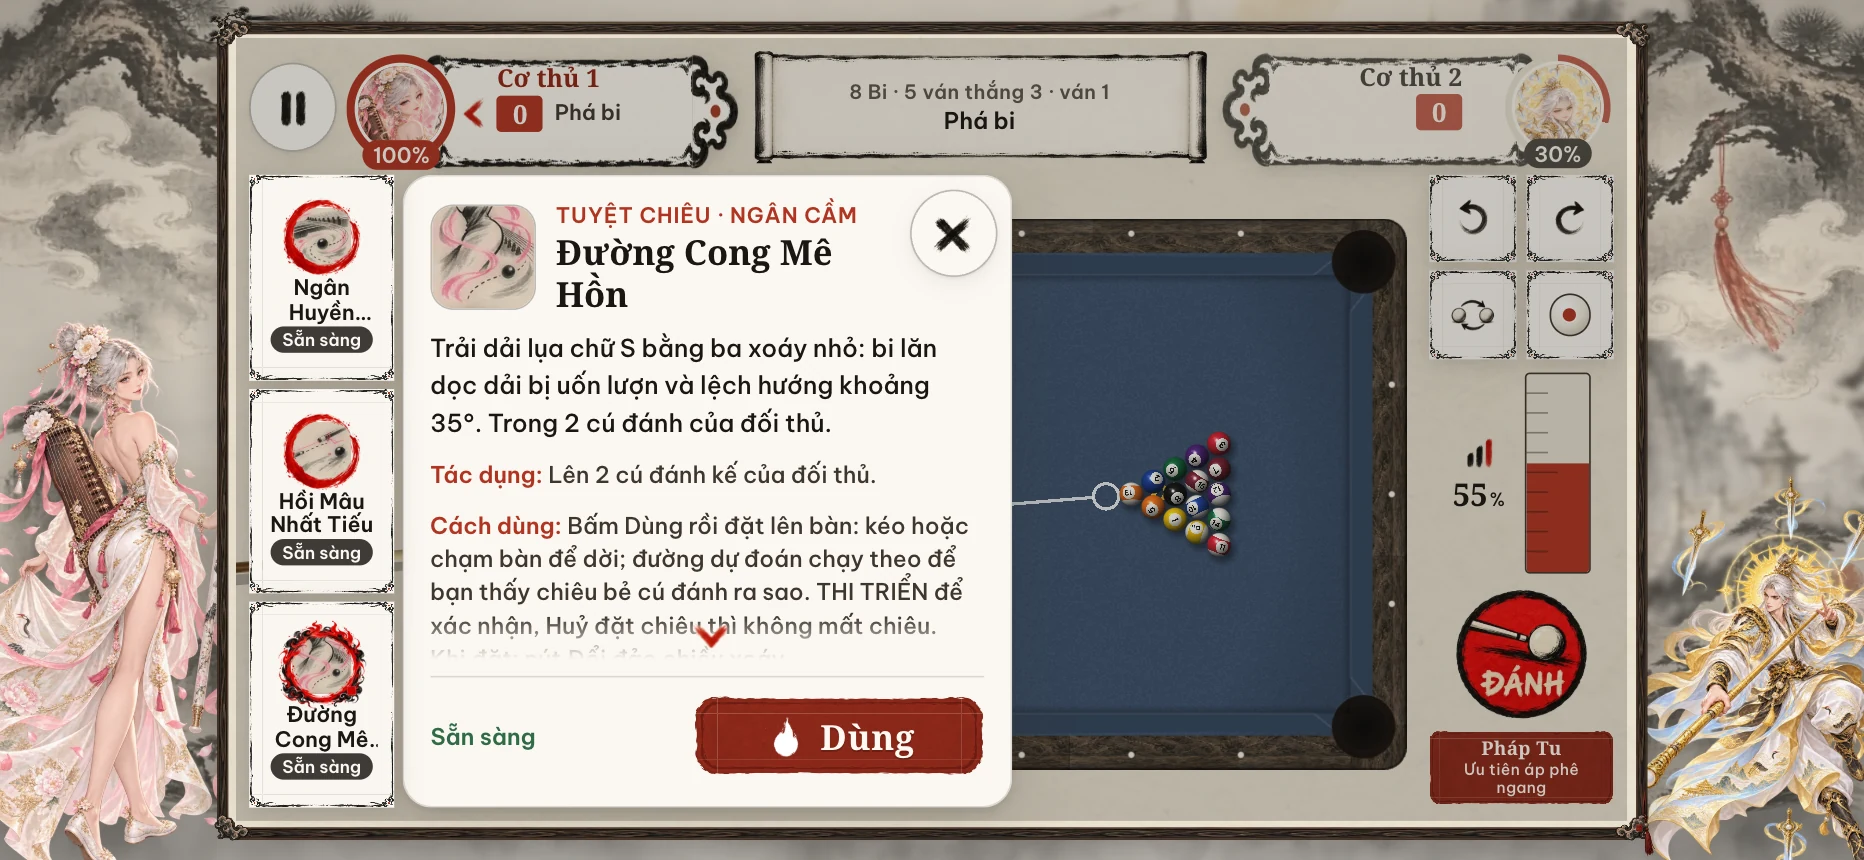
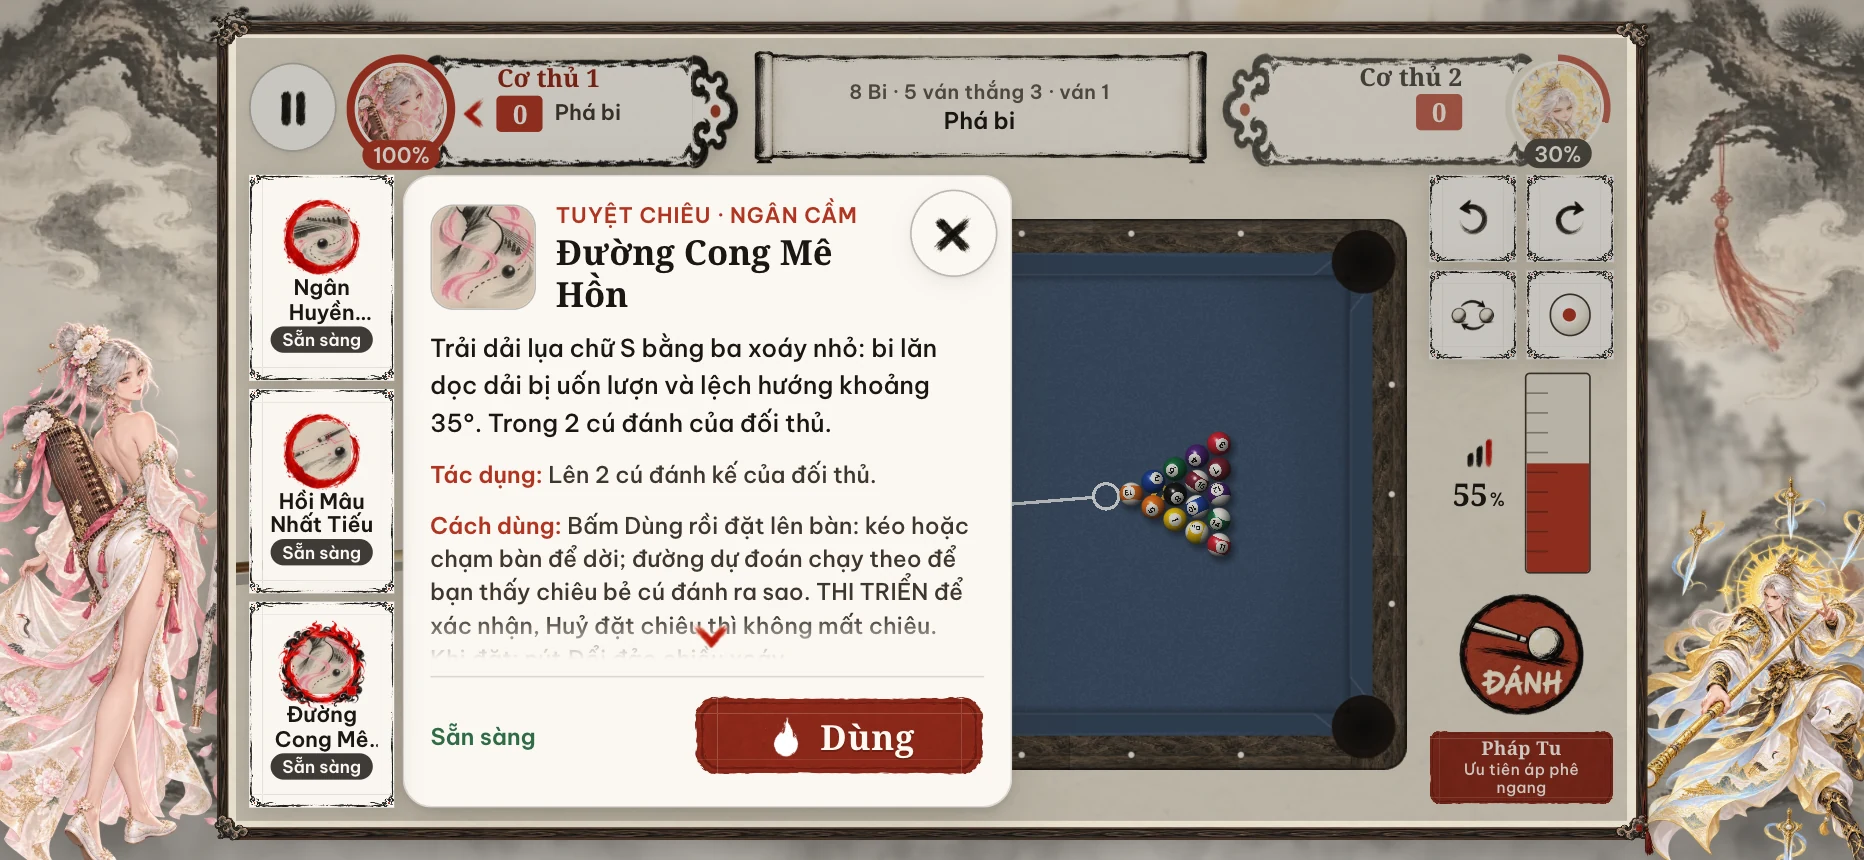
feat(ui): redraw match controls and journey challenge action

Changed region(s): [[0.7779, 0.6651, 0.8712, 0.8465]]

diff --git a/src/styles/screens.css b/src/styles/screens.css
@@ -552,18 +552,28 @@ textarea.code-box:focus { border-color: var(--accent); }
   text-overflow: ellipsis;
 }
 .land-sheet .ls-masters .cc-sub { justify-self: stretch; white-space: nowrap; overflow: hidden; text-overflow: ellipsis; }
-.land-sheet .ls-masters .cc-cta { margin-top: 2px; }
+.land-sheet .ls-masters .champ-card.next { grid-template-columns: 48px minmax(0, 1fr) var(--touch-target); }
+.land-sheet .ls-masters .champ-card > .ls-duel {
+  grid-column: 3;
+  grid-row: 1 / span 3;
+  justify-self: end;
+  display: grid;
+  place-items: center;
+  width: var(--touch-target);
+  height: var(--touch-target);
+  border: 1px solid var(--accent);
+  border-radius: 50%;
+  background: var(--sheet);
+}
+.ls-duel .ico { width: 34px; height: 34px; }
 .land-sheet .ls-masters .stars { gap: 1px; }
 .land-sheet .ls-masters .stars .ico { width: 15px; height: 15px; }
 .land-sheet .ls-masters .ls-boss { grid-column: 1 / -1; grid-template-columns: 60px minmax(0, 1fr); padding: 5px 10px 5px 5px; }
+.land-sheet .ls-masters .ls-boss.next { grid-template-columns: 60px minmax(0, 1fr) var(--touch-target); }
 .land-sheet .ls-masters .ls-boss .cc-art { width: 60px; }
 .ls-boss-foot { display: flex; align-items: center; gap: 6px; margin-top: 2px; }
-.ls-boss-foot > .cc-cta { margin-top: 0; }
 .ls-boss-tag {
-  padding: 1px 8px;
-  border-radius: 999px;
-  background: var(--accent);
-  color: var(--on-accent);
+  color: var(--accent-2);
   font-size: var(--fs-xs);
   font-weight: 700;
   white-space: nowrap;

diff --git a/src/ui/screens/journey.ts b/src/ui/screens/journey.ts
@@ -129,8 +129,8 @@ function landSheet(app: App, id: SectId) {
         const best = p.career[n.id];
         // Masters are sorted by tier, so the last one is the land's tier-5 boss.
         const boss = ni === ch.npcs.length - 1;
-        const foot = best !== undefined ? stars(best) : n === nextNpc ? h('span.cc-cta', null, 'Thách đấu') : null;
-        return champCard(champion(n.id), {
+        const foot = best !== undefined ? stars(best) : null;
+        const card = champCard(champion(n.id), {
           locked: !open, name: n.name, cls: `${boss ? 'ls-boss' : 'ls-master'}${n === nextNpc ? ' next' : ''}`,
           sub: open ? `${MODE_NAMES[n.mode]} · ${LEVEL_NAMES[n.level]}` : 'Thắng cao thủ trước để mở',
           foot: boss ? h('span.ls-boss-foot', null, h('span.ls-boss-tag', null, 'Trùm vùng'), foot) : foot,
@@ -139,6 +139,11 @@ function landSheet(app: App, id: SectId) {
           close();
           npcModal(app, n);
         });
+        if (n === nextNpc) {
+          card.setAttribute('aria-label', `Thách đấu ${n.name}`);
+          card.append(h('span.ls-duel', { 'aria-hidden': 'true', title: 'Thách đấu' }, icon('challenge')));
+        }
+        return card;
       })),
       tasks.length ? h('h3.section-title', null, 'Luyện Cơ') : null,
       h('div.ls-tasks', null, ...tasks.map((c, i) => {

diff --git a/src/styles/match.css b/src/styles/match.css
@@ -274,7 +274,7 @@
 }
 .mx-cb-dot { position: absolute; width: 10px; height: 10px; margin: -5px 0 0 -5px; border-radius: 50%; background: var(--accent); border: 1.5px solid var(--sheet); }
 
-.mx-dpad { display: none; position: relative; width: 100%; aspect-ratio: 384 / 371; background: url('/art/ui/dpad.webp') center / contain no-repeat; }
+.mx-dpad { display: none; position: relative; width: 100%; aspect-ratio: 1; background: url('/art/ui/dpad.webp') center / contain no-repeat; }
 /* Each direction owns the triangle from its edge to the centre: big, equal touch areas. */
 .mx-dpad-b { position: absolute; inset: 0; padding: 0; border: 0; background: none; touch-action: none; cursor: pointer; }
 .mx-dpad-b.up { clip-path: polygon(0 0, 100% 0, 50% 50%); }

diff --git a/src/ui/icons.ts b/src/ui/icons.ts
@@ -7,7 +7,7 @@ const FILES = [
   'scroll', 'lock', 'coin', 'sound', 'music', 'fullscreen', 'edit', 'close', 'trophy', 'target', 'users', 'user',
   'check', 'play', 'home', 'replay', 'shop', 'install', 'star', 'star-empty', 'warning', 'info', 'journey',
   'quick-match', 'collection', 'story', 'codex', 'energy', 'ultimate', 'cooldown', 'hint', 'vision', 'nudge',
-  'shield', 'tremor', 'rewind', 'thinking', 'turn',
+  'shield', 'tremor', 'rewind', 'thinking', 'turn', 'challenge',
   // Skill effect glyphs for the table callouts.
   'fx-swirl', 'fx-well', 'fx-silk', 'fx-slick', 'fx-sand', 'fx-wash', 'fx-wind', 'fx-quake', 'fx-drift', 'fx-chain',
   'fx-boost', 'fx-spin', 'fx-blast', 'fx-pull', 'fx-wide', 'fx-swap',

diff --git a/src/ui/screens/match/layout.ts b/src/ui/screens/match/layout.ts
@@ -1,8 +1,8 @@
 import { uiScale } from '../../dom';
 import type { MatchCtx } from './context';
 
-/** Painted hand: ball centre and radius as fractions of the 285×320 image. */
-export const HAND = { w: 285, h: 320, cx: 0.153, cy: 0.239, r: 0.144 };
+/** Painted hand: ball centre and radius as fractions of the 295×320 image. */
+export const HAND = { w: 295, h: 320, cx: 0.1556, cy: 0.2127, r: 0.1547 };
 
 export function createLayout(ctx: MatchCtx): { layout(): void; dispose(): void } {
   const onResize = () => layout();

diff --git a/README.md b/README.md
@@ -51,17 +51,21 @@ Chụp ở 932×430, tướng của người chơi là Ngân Cầm.
 | --- | --- |
 | ![Chọn trận Luận Cơ](docs/screenshots/luan-co.webp) | ![Song Đấu: mỗi bên chọn tướng (thẻ ghi bậc), tên và Pháp Cơ](docs/screenshots/song-dau.webp) |
 | **Trận đấu** | **Tạm dừng** |
-| ![Trận đấu: thông báo ở ô giữa thanh trên cùng, mũi tên son chỉ người tới lượt](docs/screenshots/tran-dau.webp) | ![Menu tạm dừng sau khi đặt bi](docs/screenshots/tam-dung.webp) |
+| ![Trận đấu: thông báo giấy giữa bàn, nút ĐẶT BI và mũi tên dời bi bằng nét mực](docs/screenshots/tran-dau.webp) | ![Menu tạm dừng sau khi đặt bi, nút ĐÁNH dùng tranh nét mực](docs/screenshots/tam-dung.webp) |
 | **Chiêu thức** | **Tuyệt chiêu** |
-| ![Thẻ chiêu thức: tên và nút Dùng cố định, mô tả cuộn riêng](docs/screenshots/dat-chieu.webp) | ![Thẻ tuyệt chiêu: nút Dùng có icon năng lượng](docs/screenshots/tuyet-chieu.webp) |
+| ![Thẻ chiêu thức: tên và nút Dùng cố định, mô tả cuộn riêng; nút ĐÁNH mới ở bên phải](docs/screenshots/dat-chieu.webp) | ![Thẻ tuyệt chiêu: nút Dùng có icon năng lượng, nút ĐÁNH dùng tranh nét mực](docs/screenshots/tuyet-chieu.webp) |
 | **Kết liễu** | **Hành trình** |
-| ![Hiệu ứng kết liễu khi thắng ván](docs/screenshots/ket-lieu.webp) | ![Bản đồ Hành trình](docs/screenshots/hanh-trinh.webp) |
+| ![Hiệu ứng kết liễu khi thắng ván, trên bộ điều khiển bằng nét mực](docs/screenshots/ket-lieu.webp) | ![Bản đồ Hành trình](docs/screenshots/hanh-trinh.webp) |
 | **Luyện thế · chọn thế** | **Luyện thế · Đường đi** |
-| ![Chọn thế luyện](docs/screenshots/luyen-the-chon.webp) | ![Bàn Luyện thế với đường đi của mọi bi](docs/screenshots/luyen-the.webp) |
+| ![Chọn thế luyện](docs/screenshots/luyen-the-chon.webp) | ![Bàn Luyện thế với đường đi của mọi bi và nút ĐÁNH mới](docs/screenshots/luyen-the.webp) |
 | **Tàng Các** | **Trang tướng** |
 | ![Tàng Các](docs/screenshots/tang-cac.webp) | ![Trang tướng: ba chiêu, mục Tiểu sử và Tranh, nút chọn tướng dưới tranh](docs/screenshots/trang-tuong.webp) |
 | **Trang môn phái** | **Cơ Tiên Truyện** |
 | ![Trang môn phái trong Tàng Các](docs/screenshots/mon-phai.webp) | ![Đọc Cơ Tiên Truyện](docs/screenshots/co-tien-truyen.webp) |
+
+Chi tiết vùng đất đặt icon hai cây cơ thách đấu riêng bên phải cao thủ kế tiếp:
+
+![Chi tiết Hành trình: nút thách đấu bằng icon hai cây cơ, căn giữa bên phải](docs/screenshots/hanh-trinh-vung-dat.webp)
 
 Trên màn hình 2K (2560×1440), khung 16:9 nằm giữa phông tranh, tướng đứng hai bên:
 

diff --git a/docs/architecture/ui.md b/docs/architecture/ui.md
@@ -13,7 +13,7 @@ tranh đó suốt phiên (`champion-art.ts`). Màn VS, đầu trận, cut-in và
 | `screens/setup.ts` | Thiết lập Luận Cơ và Song Đấu |
 | `screens/collection.ts`, `settings.ts` | Tàng Các, Cài đặt |
 | `screens/career.ts`, `challenge-start.ts` | Trận Hành trình, mở một thử thách Luyện Cơ |
-| `screens/journey.ts` | Bản đồ Hành trình 16:9 phủ kín khung, thanh trên cùng nổi trên tranh, không cuộn; mốc lấy thứ tự từ `CHAPTERS`; trận trở về mở đúng vùng đất vừa đánh. Hộp thoại vùng đất xếp bốn cao thủ bậc 1–4 thành 2×2, trùm bậc 5 nằm riêng một hàng |
+| `screens/journey.ts` | Bản đồ Hành trình 16:9 phủ kín khung, thanh trên cùng nổi trên tranh, không cuộn; mốc lấy thứ tự từ `CHAPTERS`; trận trở về mở đúng vùng đất vừa đánh. Hộp thoại vùng đất xếp bốn cao thủ bậc 1–4 thành 2×2, trùm bậc 5 nằm riêng một hàng; thẻ cao thủ kế tiếp có icon hai cây cơ thách đấu, căn giữa bên phải |
 | `screens/champion-page.ts` | Trang tướng duy nhất: Chiêu thức, Tiểu sử, Tranh; chiêu mộ hoặc chọn đại diện |
 | `screens/library.ts` | Trang môn phái và tab Luật của Tàng Các |
 | `screens/challenges.ts` | Luyện Cơ |
@@ -39,6 +39,14 @@ với chân dung lớn; trạng thái máy đang tính ở ngay dưới thanh tr
 hiện khi tắt thông báo thường. `notice-input.ts` bắt lần chạm đóng thông tin trước sự kiện bàn; các nút
 điều khiển vẫn làm đúng thao tác của chúng. Thẻ chiêu có đầu và hàng nút cố định; `.mx-sc-body` là phần duy
 nhất cuộn, nên mô tả dài không đẩy nút Dùng ra ngoài thẻ.
+
+Nút thách đấu ở chi tiết vùng đất dùng icon `challenge` vẽ hai cây cơ bắt chéo. Icon nằm riêng bên phải
+thẻ cao thủ kế tiếp, ngang tâm chân dung; tên nút cho trình đọc màn hình có cả tên đối thủ. “Trùm vùng” là
+nhãn chữ son, tách khỏi hành động. Thẻ đã thắng vẫn có sao và mở lại trận như trước.
+
+Các nút ĐÁNH, ĐẶT BI ở `art/ui/actions/`, bộ mũi tên dời bi ở `art/ui/dpad.webp` và bàn tay cầm bi ở
+`art/ui/hand-ball.webp` cùng dùng giấy dó, nét mực và son. `HAND` trong `screens/match/layout.ts` ghi vị
+trí và bán kính bi trên tranh, để tâm bi vẽ khớp với bi thật khi kéo hoặc thay đổi kích thước khung.
 
 ## Một khung 16:9
 
